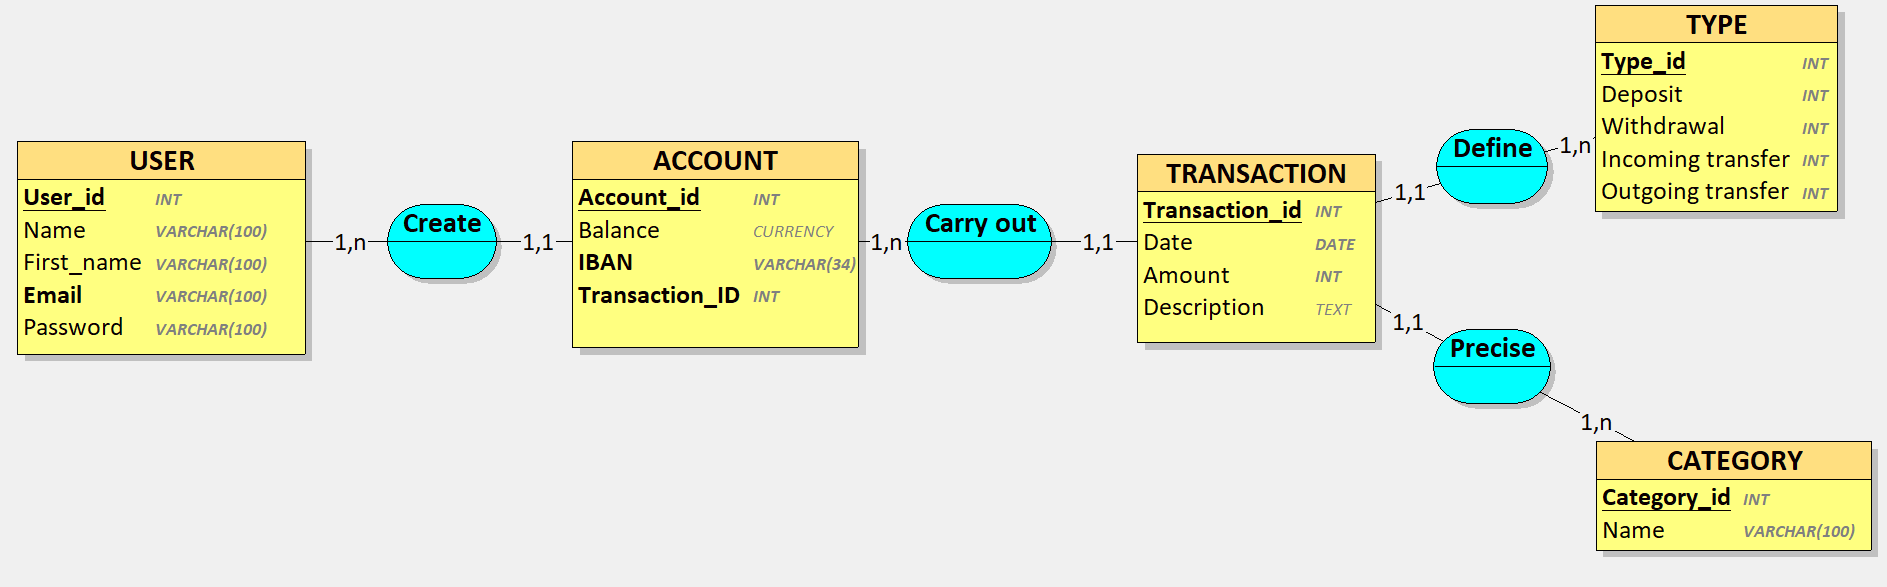
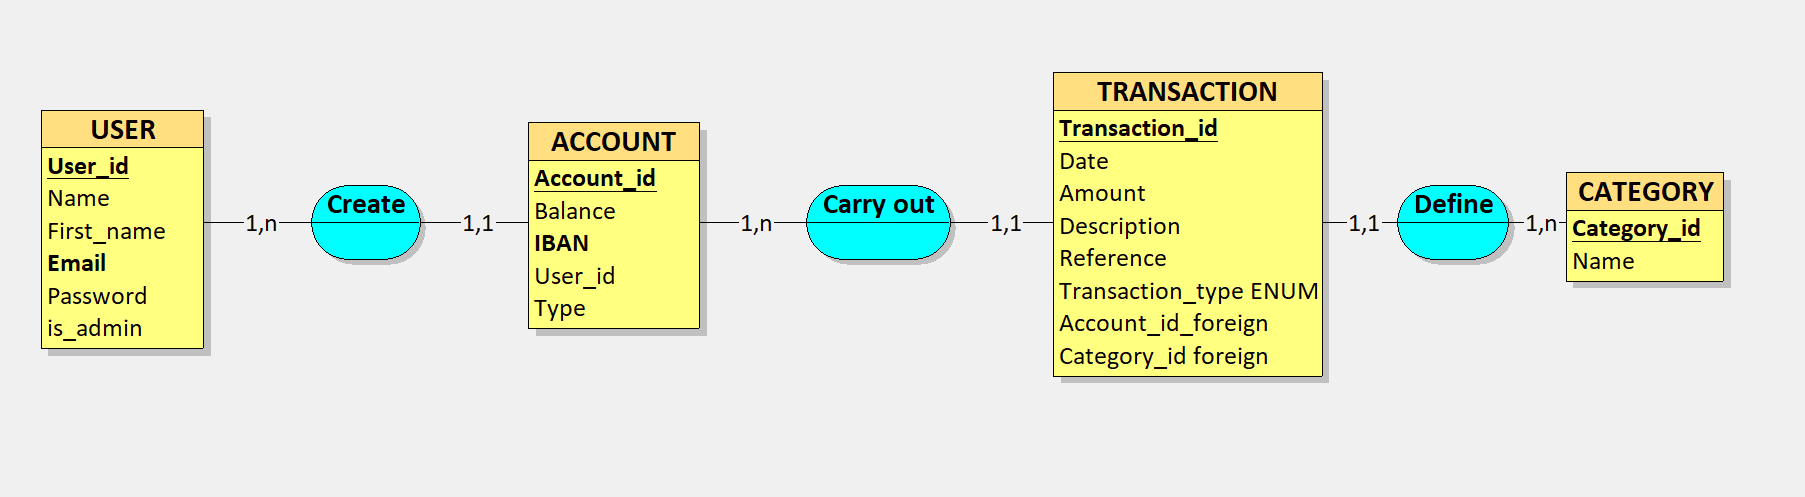
feat: fix database.py error, updated MCD and MPD

diff --git a/database.py b/database.py
@@ -32,9 +32,9 @@ table_account = """
 CREATE TABLE IF NOT EXISTS account (
     id INT AUTO_INCREMENT PRIMARY KEY,
     balance DECIMAL(10,2) NOT NULL DEFAULT 0,
-    iban VARCHAR(34) NOT NULL,
+    iban VARCHAR(34) UNIQUE NOT NULL,
     user_id INT NOT NULL,
-    type VARCHAR(50) DEFAULT 'courant',
+    type VARCHAR(50) DEFAULT 'current',
     FOREIGN KEY (user_id) REFERENCES user(id) ON DELETE CASCADE
 )
 """
